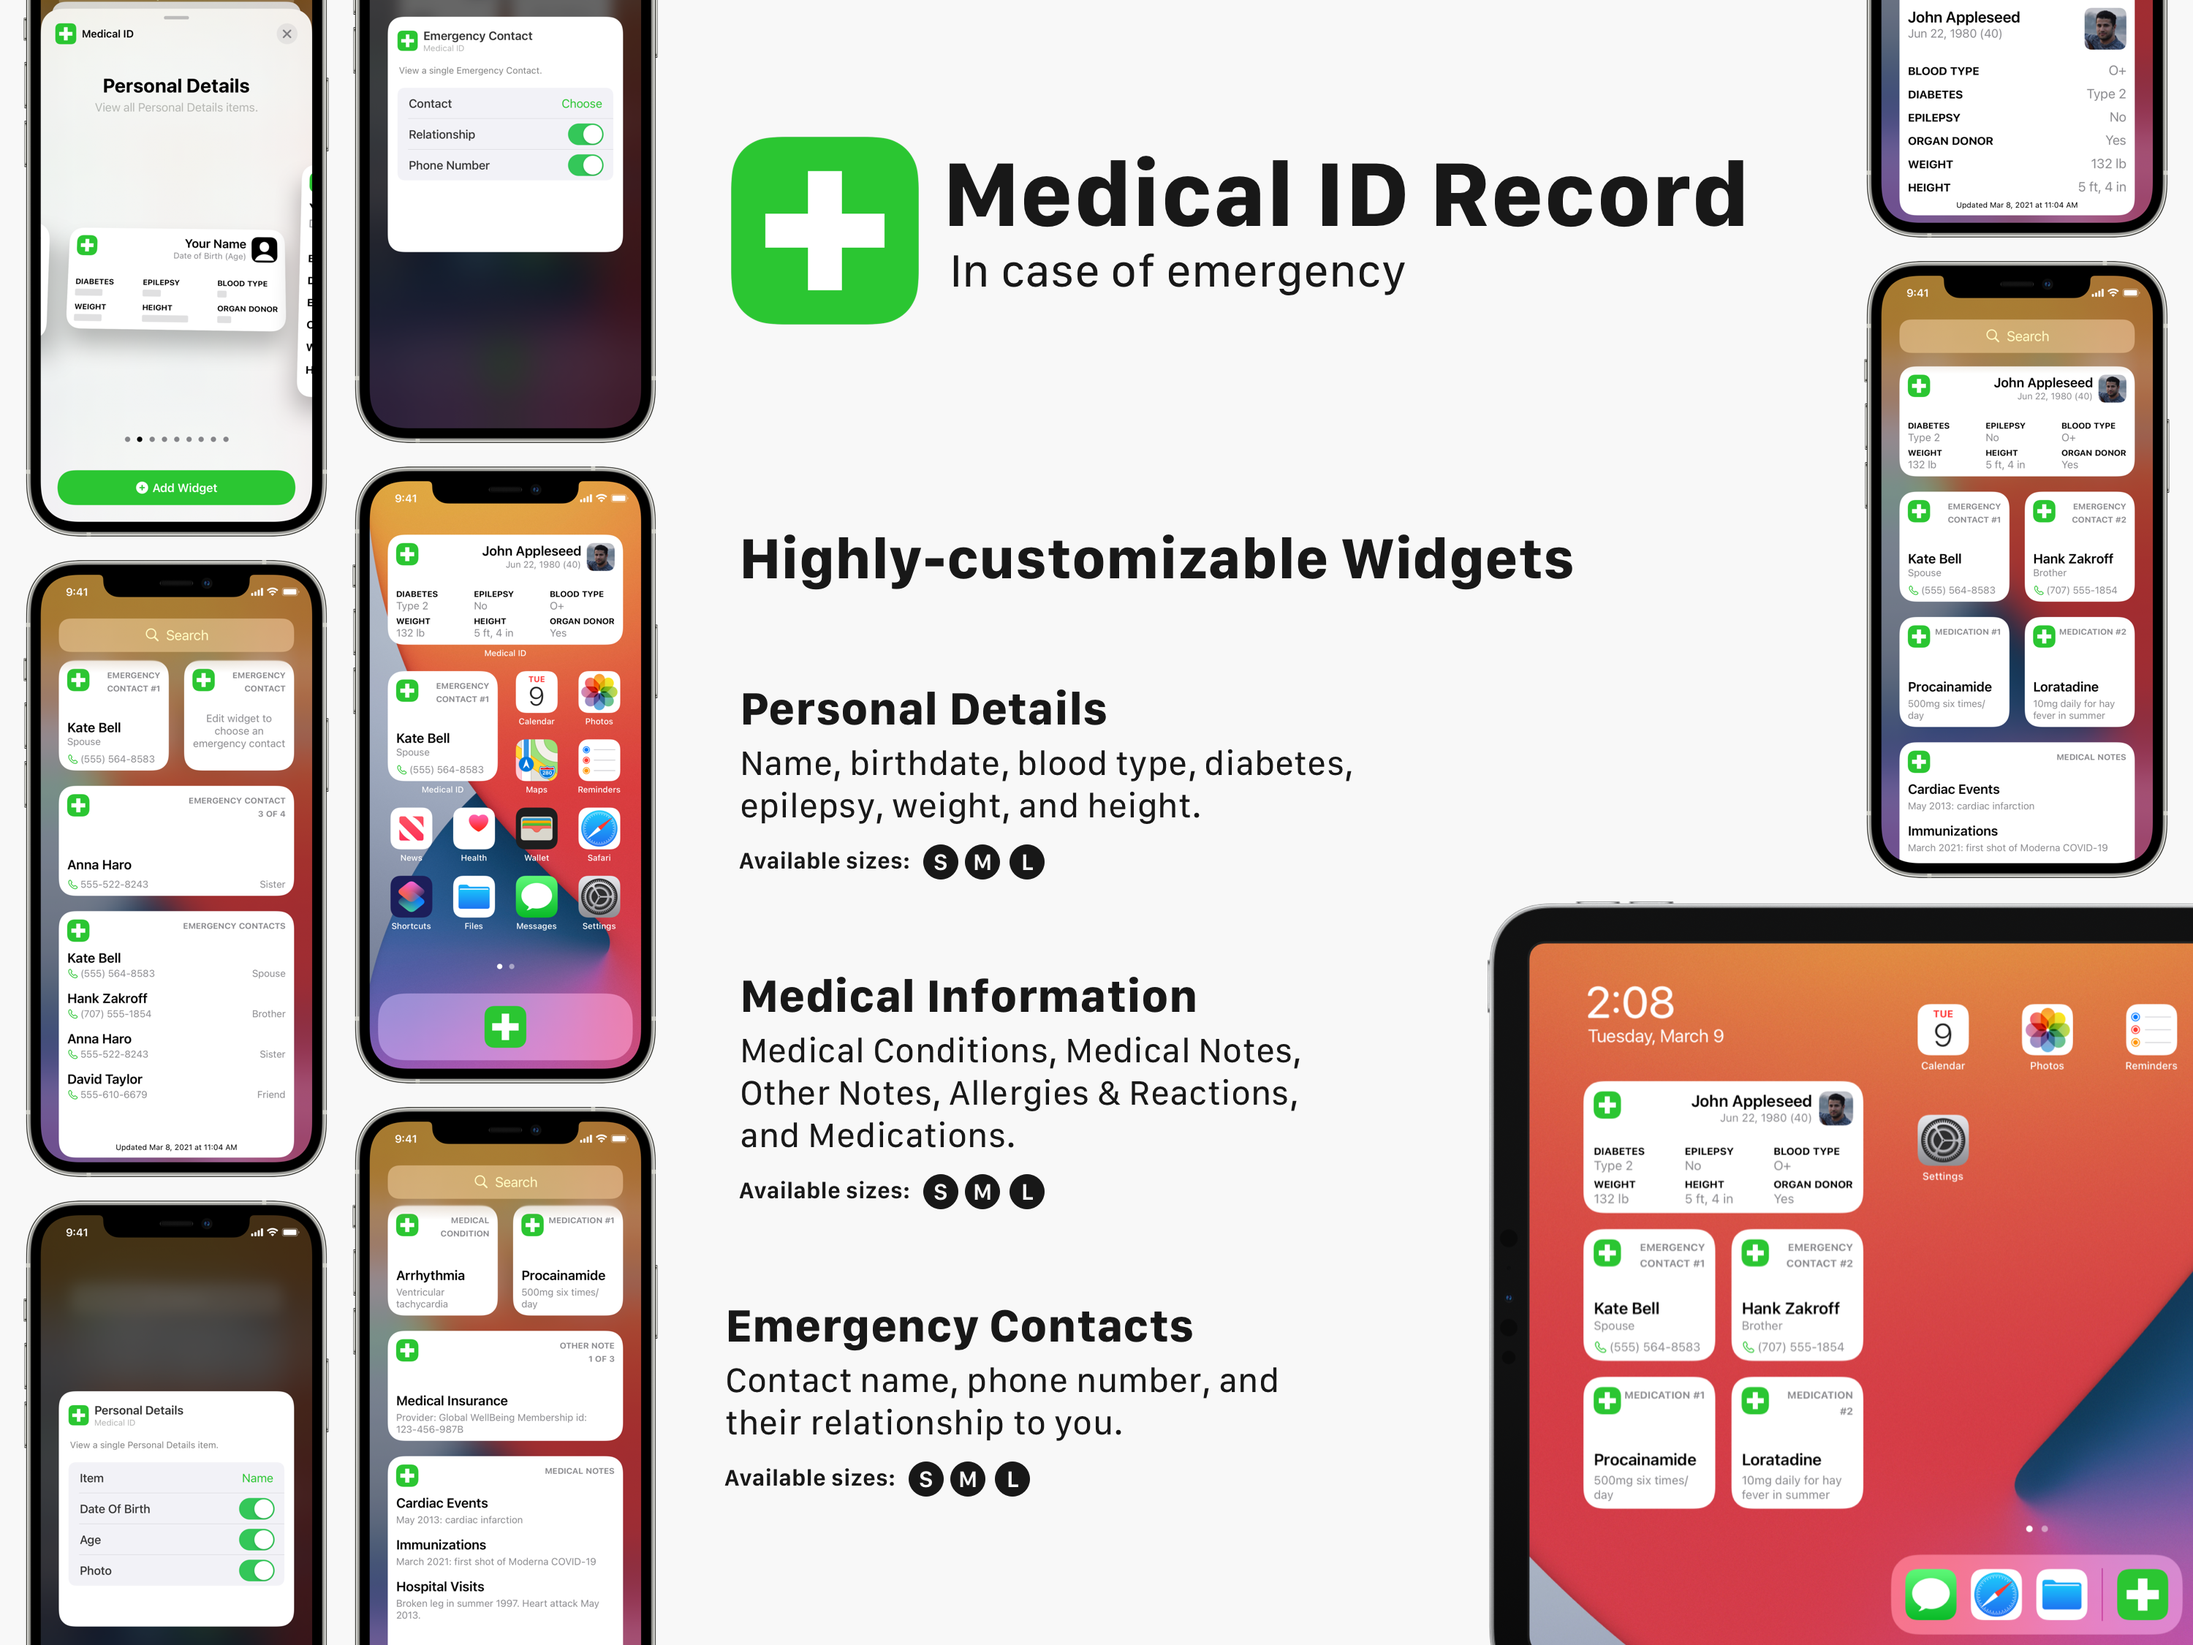
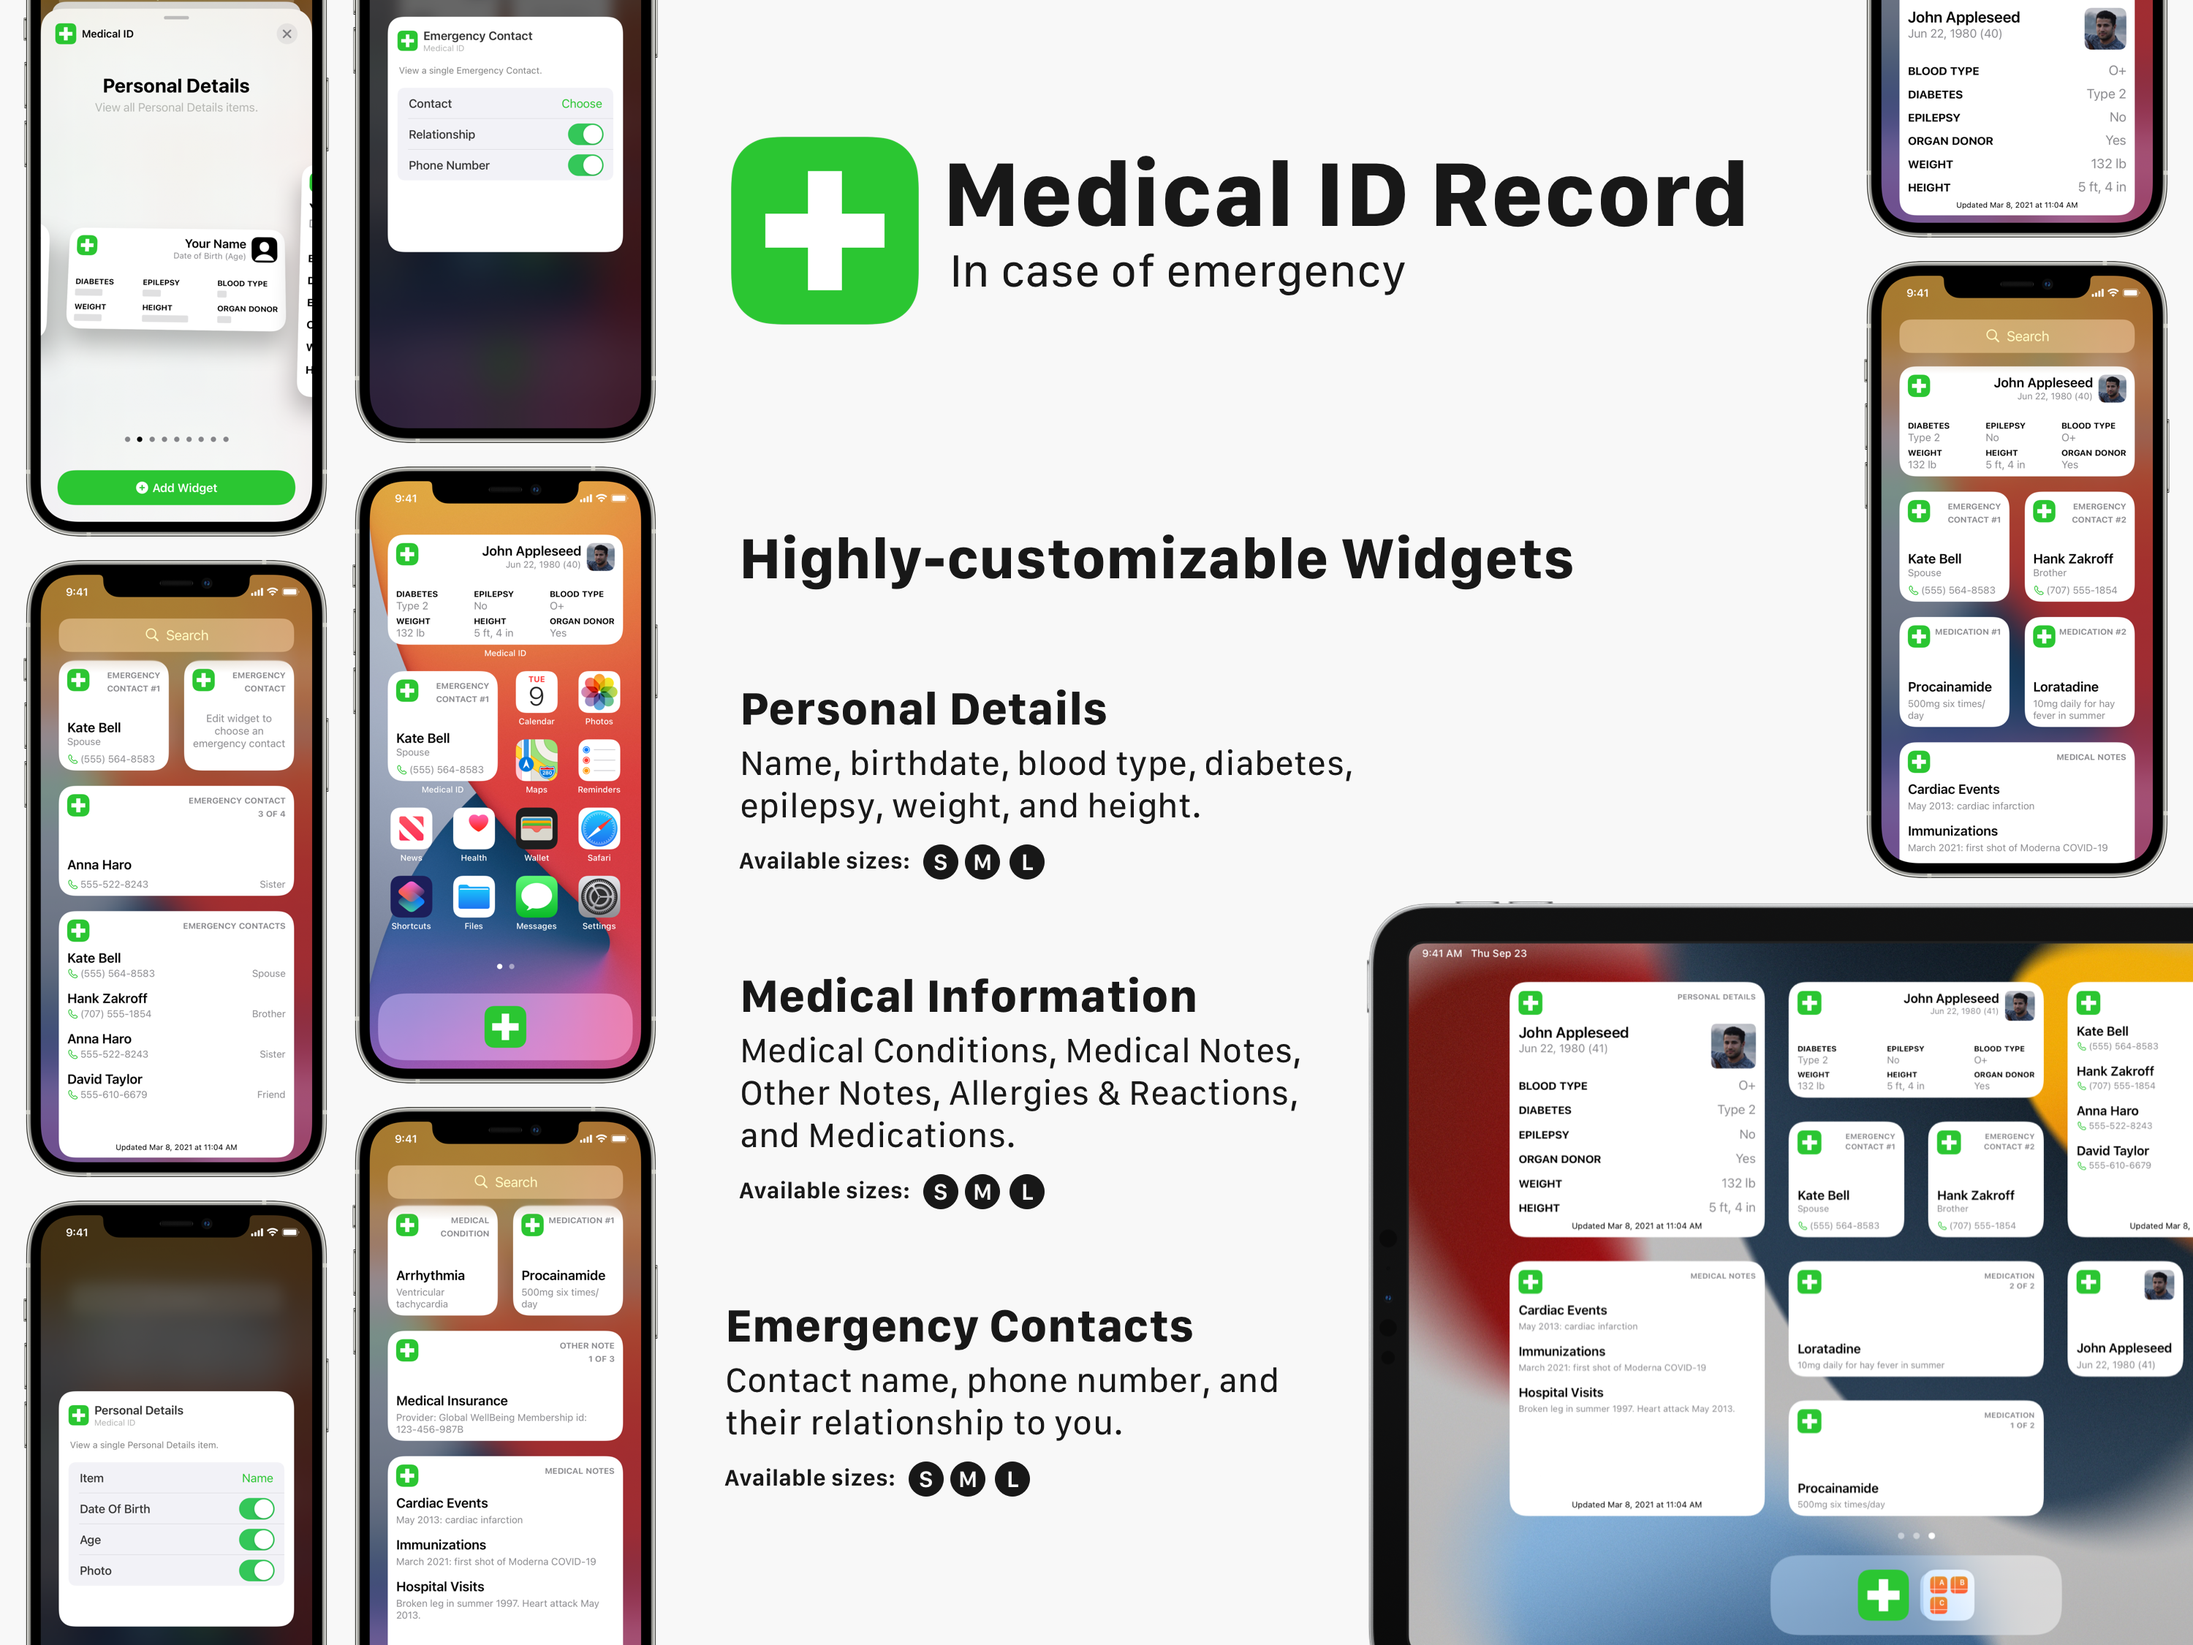
Updated for iOS/iPadOS 15.

Changed region(s): [[0.62, 0.5289, 1.0, 1.0]]

diff --git a/README.md b/README.md
@@ -125,7 +125,7 @@ The app does not collect any usage metrics.
 <br/>
 
 
-#### iOS 14 Widgets (new in v6.0):
+#### iOS 14/15 Widgets:
 
 <table style="border-spacing:12">
 	<tr>
@@ -242,7 +242,7 @@ The app does not collect any usage metrics.
 <br/>
 
 
-#### iOS 14 Widgets (new in v6.0):
+#### iOS 14/15 Widgets:
 
 <table style="border-spacing:12">
 	<tr>
@@ -344,7 +344,7 @@ At the time of writing this is **£4.99 GBP** and **€5.49 EUR**.
 
 ### Availability
 Medical ID Record is a universal app available worldwide for iPhone, iPad and Apple Watch and requires iOS 11 and watchOS 4 or later.
-Some features require iOS/iPadOS 13 or 14.
+Some features require iOS/iPadOS 13 or later.
 
 
 ### Web Sites
